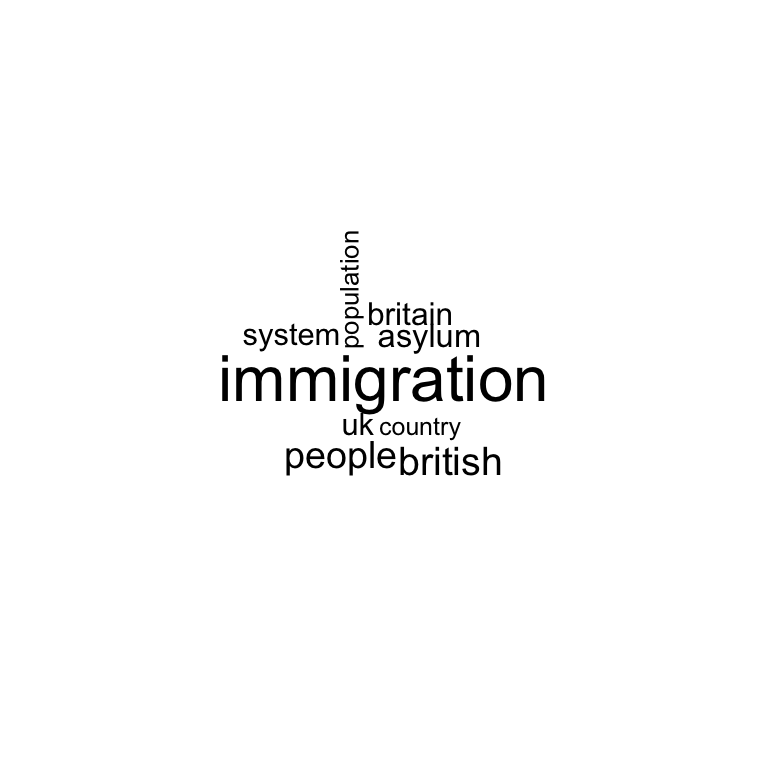
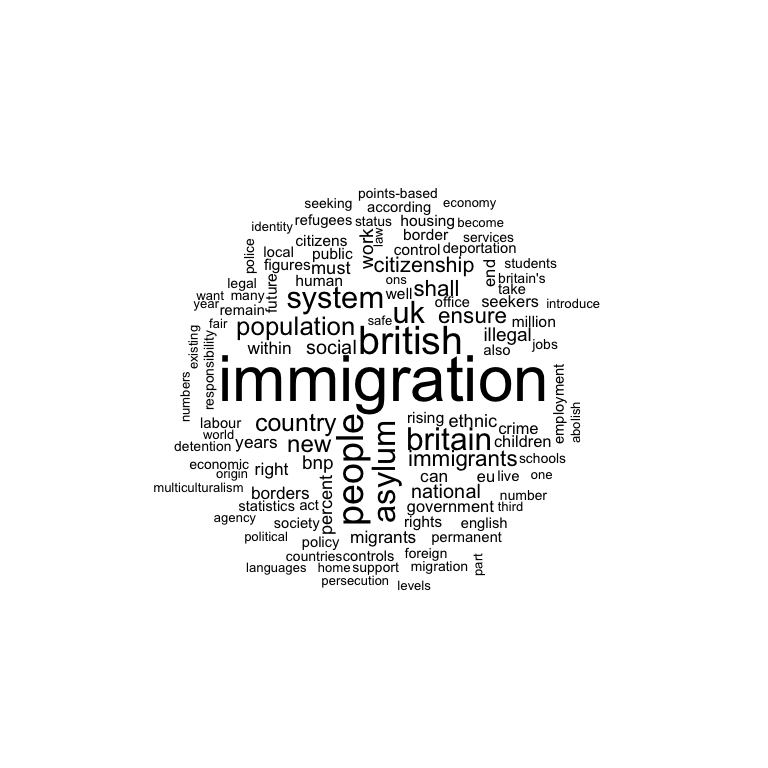
Fix figure size

Changed region(s): [[0.1875, 0.25, 0.7812, 0.7812]]

diff --git a/README.md b/README.md
@@ -110,7 +110,7 @@ summary(uk2010immigCorpus, showmeta=TRUE)
 #>          UKIP   311    633        38         UKIP
 #> 
 #> Source:  /Users/kbenoit/Dropbox/QUANTESS/quanteda_kenlocal_gh/* on x86_64 by kbenoit
-#> Created: Sat Oct 24 11:40:30 2015
+#> Created: Sat Oct 24 11:42:52 2015
 #> Notes:   Immigration-related sections of 2010 UK party manifestos
 
 # key words in context for "deport", 3 words of context
@@ -131,7 +131,7 @@ mydfm <- dfm(uk2010immigCorpus, ignoredFeatures=c("will", stopwords("english")))
 #>    ... removed 97 features, from 175 supplied (glob) feature types
 #>    ... created a 9 x 1489 sparse dfm
 #>    ... complete. 
-#> Elapsed time: 0.05 seconds.
+#> Elapsed time: 0.042 seconds.
 dim(mydfm)              # basic dimensions of the dfm
 #> [1]    9 1489
 topfeatures(mydfm, 20)  # 20 top words
@@ -143,7 +143,7 @@ topfeatures(mydfm, 20)  # 20 top words
 #>          17          16          14          14          13          13 
 #>        work     percent 
 #>          13          12
-plot(mydfm, min.freq = 20)             # word cloud     
+plot(mydfm, min.freq = 6, random.order = FALSE)             # word cloud     
 ```
 
 ![](README-quanteda_example-1.png)
